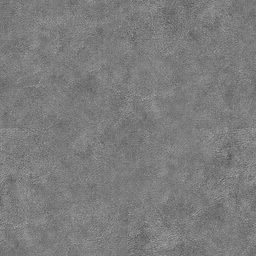
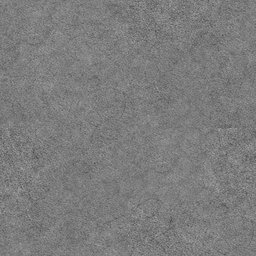
ukiyo-e: paper interface and theme interface colors
Cream washi behind the sidebar, menus and dialogs and a mid indigo behind
the city screen, generated as the theme's own interface textures. A new
hd/ui/colors.txt lets a theme recolor interface palette indexes on the
main screen (boxes keep their grain) and the frame around the game; the
ukiyo-e theme uses sumi ink, indigo, cream, madder and vermilion.

Claude-Session: https://claude.ai/code/session_01VGBb6mKQ3kspS5r6m29MiP

diff --git a/src/Graphics/GBitmap.cs b/src/Graphics/GBitmap.cs
@@ -57,6 +57,8 @@ namespace OpenCivOne.Graphics
 		// Optional painted grain for flat fills on screens (hd/ui/material.png): shades around 128, one per HD pixel
 		private static byte[]? _uiMaterial = null;
 		private static int _uiMaterialSize = 0;
+		// Optional theme colors for the same screens (hd/ui/colors.txt): a color per palette index, or 0 to keep the tone
+		private static uint[]? _uiColors = null;
 		private bool _useUIMaterial = false;
 		private static bool _smoothUpscale = false;
 
@@ -250,6 +252,39 @@ namespace OpenCivOne.Graphics
 			return true;
 		}
 
+		/// <summary>
+		/// Loads a theme's interface colors: lines of a palette index and the color that replaces it as RRGGBB, with # comments.
+		/// On screens with the UI material, boxes, lines and text of those indexes take these colors as they are, instead
+		/// of the painted tone. Returns false without the file.
+		/// </summary>
+		public static bool LoadUIColors(string path)
+		{
+			_uiColors = null;
+
+			if (!File.Exists(path))
+				return false;
+
+			uint[] colors = new uint[256];
+
+			foreach (string line in File.ReadAllLines(path))
+			{
+				string[] parts = line.Split('#')[0].Split((char[]?)null, StringSplitOptions.RemoveEmptyEntries);
+
+				if (parts.Length >= 2 && int.TryParse(parts[0], out int index) && index >= 0 && index < 256 &&
+					uint.TryParse(parts[1], System.Globalization.NumberStyles.HexNumber, null, out uint rgb))
+					colors[index] = 0xff000000 | (rgb & 0xffffff);
+			}
+
+			_uiColors = colors;
+
+			return true;
+		}
+
+		/// <summary>
+		/// The theme's interface color for a palette index (see LoadUIColors), or null when it has none
+		/// </summary>
+		public static uint? UIColor(int index) => (_uiColors != null && _uiColors[index] != 0) ? _uiColors[index] : null;
+
 		// HD pixels of painted boxes: the shade in red and blue, like a key color, marked by this alpha
 		private const uint MaterialAlpha = 0xfe000000;
 
@@ -276,8 +311,11 @@ namespace OpenCivOne.Graphics
 		/// Color of a painted box pixel: the box's palette color, toned down to the painted look (half desaturated,
 		/// a little darker and warmer, so the bright EGA colors keep their hue but sit with the art), and shaded by the grain
 		/// </summary>
-		private static uint MaterialColor(uint color, uint indexColor)
+		private static uint MaterialColor(uint color, uint indexColor, uint themed = 0)
 		{
+			if (themed != 0)
+				return ShadeColor(themed, color);
+
 			float shade = ((color >> 16) & 0xff) / 128f;
 			float r = (indexColor >> 16) & 0xff, g = (indexColor >> 8) & 0xff, b = indexColor & 0xff;
 			float grey = (r * 0.3f) + (g * 0.59f) + (b * 0.11f);
@@ -295,6 +333,7 @@ namespace OpenCivOne.Graphics
 		{
 			_uiMaterial = null;
 			_uiMaterialSize = 0;
+			_uiColors = null;
 		}
 
 		/// <summary>
@@ -923,8 +962,17 @@ namespace OpenCivOne.Graphics
 			// with the UI material, pixels without HD art (text, the minimap, pictures) get a gentler version of its tone
 			uint[] palette = new uint[256];
 
+			uint[]? themed = (this._useUIMaterial && _uiMaterial != null) ? _uiColors : null;
+
 			for (int c = 0; c < 256; c++)
-				palette[c] = (this._useUIMaterial && _uiMaterial != null) ? GradeColor(this.oPalette[(byte)c].ToUInt32()) : this.oPalette[(byte)c].ToUInt32();
+			{
+				uint original = this.oPalette[(byte)c].ToUInt32();
+
+				if (themed != null && themed[c] != 0)
+					palette[c] = (original & 0xff000000) | (themed[c] & 0xffffff);
+				else
+					palette[c] = (this._useUIMaterial && _uiMaterial != null) ? GradeColor(original) : original;
+			}
 
 			WaterFrame? water = (AnimateWater && this._hdPixels != null) ? new WaterFrame(hdWidth, this.iHeight * HDScale) : null;
 			bool showsWater = false;
@@ -957,7 +1005,7 @@ namespace OpenCivOne.Graphics
 								}
 
 								// keep the alpha of the palette color, so HD pixels are presented the same way as indexed ones
-								pixel = (ResolveHDColor(hd, color) & 0xffffff) | (color & 0xff000000);
+								pixel = (ResolveHDColor(hd, color, (themed != null) ? themed[this.aPixels[pixelAddress]] : 0) & 0xffffff) | (color & 0xff000000);
 							}
 
 							rows[(k * hdWidth) + (j * HDScale) + l] = (int)pixel;
@@ -1278,10 +1326,10 @@ namespace OpenCivOne.Graphics
 		/// <summary>
 		/// Color shown for an HD pixel over the color of its indexed pixel
 		/// </summary>
-		private static uint ResolveHDColor(uint color, uint indexColor)
+		private static uint ResolveHDColor(uint color, uint indexColor, uint themed = 0)
 		{
 			if ((color & 0xff000000) == MaterialAlpha)
-				return MaterialColor(color, indexColor);
+				return MaterialColor(color, indexColor, themed);
 
 			if ((color & 0xff000000) == SeaAlpha || (color & 0xff000000) == RiverAlpha)
 				return color | 0xff000000;

diff --git a/tools/hdart/painted_set.py b/tools/hdart/painted_set.py
@@ -342,6 +342,11 @@ def tile(name, width, height, scale, mean, spread, tint=(1.0, 1.0, 1.0)):
 
 def ui():
     """Yields (sheet, x, y, suffix, image) for the interface patterns, and the grain for flat boxes as image files."""
+    if PRINT:
+        # paper: cream behind the sidebar and dialogs, indigo behind the city screen (it has light and colored text)
+        yield 'SP299', 288, 120, '', tile('stone', 32 * S, 16 * S, 0.25, 226, 6, (0.98, 1.0, 1.03))
+        yield 'SP299', 208, 100, '', tile('slate', 16 * S, 16 * S, 0.25, 84, 6, (1.0, 1.0, 1.0))
+        return
     # SP299 32x16 at (288, 120): the stone behind the sidebar, status panel and dialogs; light enough for black text
     yield 'SP299', 288, 120, '', tile('stone', 32 * S, 16 * S, 0.17, 150, 22)
     # SP299 16x16 at (208, 100): the city screen background; dark for its light and colored text
@@ -378,4 +383,7 @@ if __name__ == '__main__':
     if len(sys.argv) > 2:
         OBJECTS = sys.argv[2]
     PRINT = print_style(OBJECTS)
+    # a theme's own interface textures, next to its objects
+    if os.path.isdir(os.path.join(OBJECTS, '..', 'ui')):
+        UI = os.path.join(OBJECTS, '..', 'ui')
     main(sys.argv[1] if len(sys.argv) > 1 else os.path.join(HERE, '..', '..', 'assets', 'hd4'))

diff --git a/tests/HDLayerTests/Program.cs b/tests/HDLayerTests/Program.cs
@@ -610,6 +610,17 @@ GBitmap other4()
 	var plain = new GBitmap(16, 16);
 	plain.FillRectangle(new GRectangle(0, 0, 16, 16), 4, PixelWriteModeEnum.Normal);
 	Check(Frame(plain)[5 * 64 + 5] == plain4, "material: bitmaps without UseUIMaterial (sprite sheets) are not affected");
+
+	string colors = Path.Combine(dir, "colors.txt");
+	File.WriteAllText(colors, "# theme colors\n2 336699  # boxes\n15 F0E0C0\n");
+	Check(GBitmap.LoadUIColors(colors) && GBitmap.UIColor(2) == 0xff336699 && GBitmap.UIColor(4) == null, "colors: a theme's interface colors load");
+	uint[] f4 = Frame(box);
+	uint themedBox = f4[(25 * 4) * 256 + 25 * 4];
+	Check(((themedBox & 0xff) > ((themedBox >> 16) & 0xff)) && f4[(25 * 4) * 256 + 25 * 4] != f4[(25 * 4) * 256 + 25 * 4 + 1], $"colors: a box takes the theme color and keeps its grain ({themedBox:x6})");
+	Check(Flat(f4, 20, 20) && (f4[(20 * 4) * 256 + 20 * 4] & 0xffffff) == 0xf0e0c0, "colors: text takes the theme color exactly");
+	Check(Frame(plain)[5 * 64 + 5] == plain4, "colors: bitmaps without UseUIMaterial keep their palette");
+	GBitmap.LoadUIColors(Path.Combine(dir, "none.txt"));
+	Check(GBitmap.UIColor(2) == null, "colors: without the file the painted tone is used");
 	GBitmap.ClearUIMaterial();
 	GBitmap.HDScale = 2;
 }

diff --git a/src/Game/OpenCivOneGame.cs b/src/Game/OpenCivOneGame.cs
@@ -163,6 +163,7 @@ namespace OpenCivOne
 
 			// Optional painted grain for flat interface boxes, and smooth enlargement of pixel art without HD versions
 			GBitmap.LoadUIMaterial($"{hdPath}{separator}ui{separator}material.png");
+			GBitmap.LoadUIColors($"{hdPath}{separator}ui{separator}colors.txt");
 			string upscalePath = $"{hdPath}{separator}upscale.txt";
 			GBitmap.SmoothUpscale = File.Exists(upscalePath) && File.ReadAllText(upscalePath).Trim().ToLowerInvariant() == "scale2x";
 

diff --git a/src/UI/MainWindow.axaml.cs b/src/UI/MainWindow.axaml.cs
@@ -65,6 +65,10 @@ namespace OpenCivOne.UI
 			// Initialize game state
 			this.game = new OpenCivOneGame(this);
 
+			// the frame around the game is magenta (palette index 5), unless the theme recolors it
+			if (GBitmap.UIColor(5) is uint frame)
+				this.mainImageBorder.BorderBrush = new SolidColorBrush(frame);
+
 			// Open large enough to show 4x HD art at its own size, if the screen has the room
 			if (GBitmap.HDScale > 2)
 			{

diff --git a/docs/hd-art.md b/docs/hd-art.md
@@ -70,6 +70,10 @@ An optional `style.txt` in the painted art folder (lines of `name value`) change
 A terrain can also have a ground texture of its own: `forest`, `hills`, `mountains` and `jungle` in `ground/` replace
 the mix those terrains use otherwise. `themes/ukiyo-e/hd/painted` uses all of this.
 
+With `print 1`, `painted_set.py` also draws the sprites as print tokens (a dark key line and a cream outline, no
+shadows), and the interface on paper: cream washi behind the sidebar, menus and dialogs, and a mid indigo behind the
+city screen, from the textures in the theme's `hd/painted/ui` (`stone`, `slate`, `grain`) when it has them.
+
 ### Art
 
 The repository includes the art in `assets/painted`; copy it to `Civ1/hd/painted` (the stand-in build does this). The folder holds:
@@ -86,6 +90,7 @@ The 4x set also paints the interface:
 
 - The stone pattern behind the sidebar, status panel, menus and dialogs (SP299 32x16 at 288, 120) and the city screen background (SP299 16x16 at 208, 100) are painted textures. The stone is light enough for the black text on it.
 - With `hd/ui/material.png`, flat boxes on the main screen (dialogs, notes, city screen panels, buttons, bars) get a painted grain and darker edges, and boxes and lines are toned to the painted look: their palette colors are half desaturated and a little darker and warmer, so the bright EGA blues, greens and reds keep their hue but sit with the art. The grain is stored as HD pixels that take their color from the palette when shown, so menu highlights, color swaps and palette fades still work. Text drawn on a box keeps its exact color. Fills smaller than 6x6 pixels get the tone but no grain. The texture is a square grey image, mid grey (128) keeps a color, darker and lighter shade it.
+- With `hd/ui/colors.txt`, a theme gives the interface its own colors: each line is a palette index and the color that replaces it as `RRGGBB` (`#` starts a comment). On the main screen, boxes, lines and text of those indexes take the color as it is (boxes keep their grain) instead of the painted tone, and index 5 also colors the frame around the game. Player colors on HD sprites are not affected. The ukiyo-e theme turns black and the magenta frames into sumi ink, the blue panels and buttons into indigo, white text into cream and the reds into madder and vermilion.
 - With `hd/upscale.txt` containing `scale2x`, everything without HD art (text, lines, the minimap, pictures) is enlarged with Scale2x (Scale4x at 4x) instead of nearest-neighbour, which rounds the steps in text and diagonals while keeping the colors.
 
 - With the material, everything else on the main screen without HD art (text, the minimap, pictures) gets a gentler version of the same tone (a third desaturated, a little warmer), so the original colors sit with the painted art without losing their meaning.
